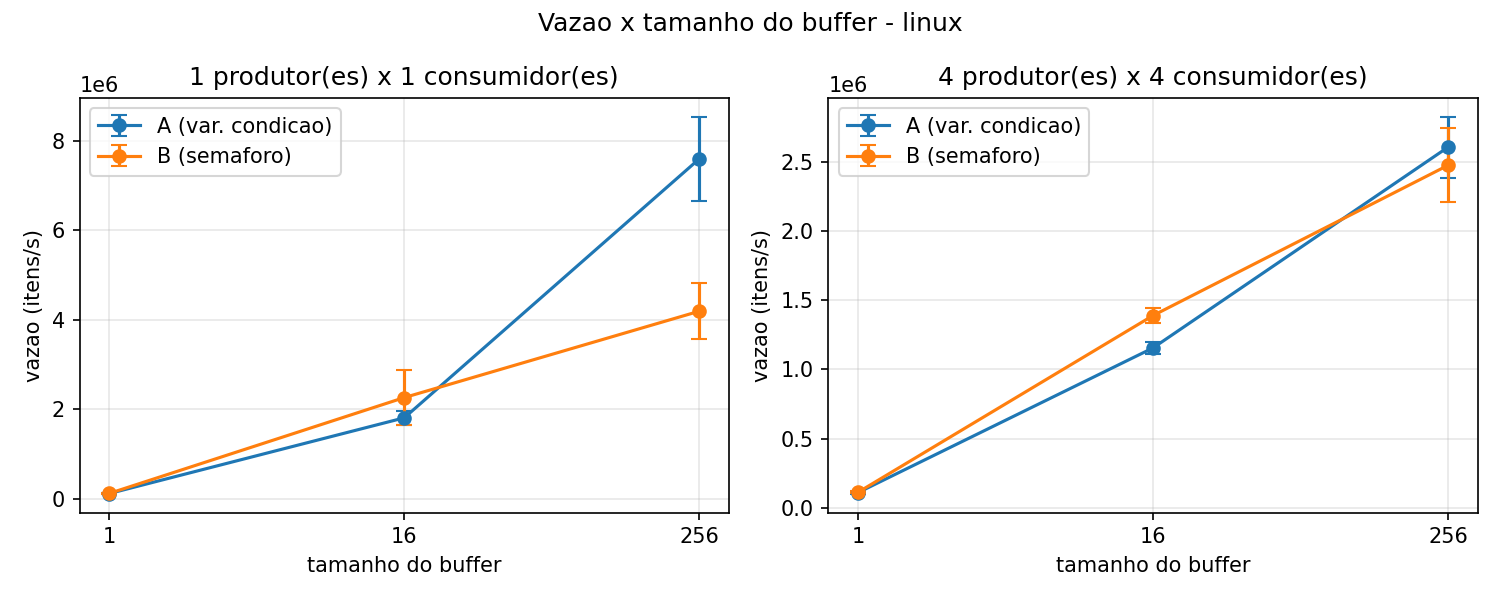
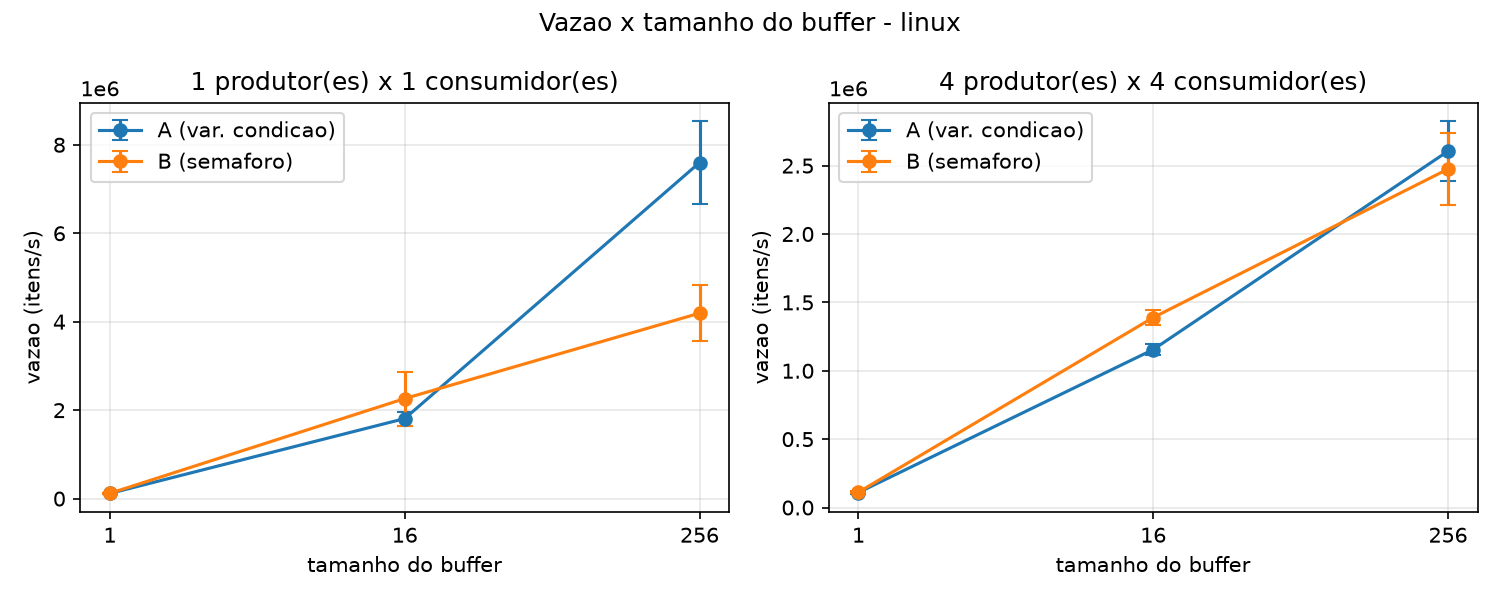
Saidas da analise separadas por SO para Windows e Linux nao se sobrescreverem

diff --git a/experimentos/analisar.py b/experimentos/analisar.py
@@ -4,11 +4,13 @@ analisar.py - resume os CSVs brutos e gera os graficos.
     python experimentos/analisar.py
 
 Le dados/<so>/vazao.csv e dados/<so>/latencia.csv(.gz) sem alterar
-nada, e escreve:
-    experimentos/resumo.csv
-    experimentos/resumo_latencia.csv
+nada. Todo arquivo gerado leva o nome do SO, entao rodar a analise
+numa maquina que so tem os dados de um SO nao apaga os do outro:
+    experimentos/resumo_<so>.csv
+    experimentos/resumo_latencia_<so>.csv
     experimentos/graficos/vazao_<so>.png
-    experimentos/graficos/latencia.png
+    experimentos/graficos/latencia_<so>.png
+    experimentos/graficos/latencia_comparacao.png  (so com 2+ SOs)
 """
 from pathlib import Path
 
@@ -48,7 +50,8 @@ def resumo(df):
     r = g["vazao_itens_s"].agg(media="mean", desvio="std", n="count").reset_index()
     t = g["tempo_s"].agg(tempo_medio="mean", tempo_desvio="std").reset_index()
     r = r.merge(t, on=CHAVE)
-    r.to_csv(SAIDA / "resumo.csv", index=False, float_format="%.4f")
+    for so, d in r.groupby("so"):
+        d.to_csv(SAIDA / f"resumo_{so}.csv", index=False, float_format="%.4f")
     return r
 
 
@@ -76,24 +79,35 @@ def grafico_vazao(r):
         plt.close(fig)
 
 
-def grafico_latencia(lat):
+def boxplot_latencia(lat, titulo, arquivo):
     grupos, rotulos = [], []
     for (so, versao), d in lat.groupby(["so", "versao"]):
         grupos.append(d["latencia_ns"] / 1000.0)
         rotulos.append(f"{so}\n{versao}")
-    fig, ax = plt.subplots(figsize=(8, 4.5))
+    fig, ax = plt.subplots(figsize=(4 + 2 * len(grupos), 4.5))
     ax.boxplot(grupos, showfliers=False)
     ax.set_xticks(range(1, len(rotulos) + 1))
     ax.set_xticklabels(rotulos)
     ax.set_ylabel("latencia (us)")
-    ax.set_title("Latencia produtor -> consumidor (1x1, buffer 1)")
+    ax.set_title(titulo)
     ax.grid(axis="y", alpha=0.3)
     fig.tight_layout()
-    fig.savefig(GRAF / "latencia.png", dpi=150)
+    fig.savefig(GRAF / arquivo, dpi=150)
     plt.close(fig)
 
-    q = lat.groupby(["so", "versao"])["latencia_ns"].describe(percentiles=[0.5, 0.9, 0.99])
-    q.to_csv(SAIDA / "resumo_latencia.csv", float_format="%.1f")
+
+def grafico_latencia(lat):
+    for so, d in lat.groupby("so"):
+        boxplot_latencia(d, f"Latencia produtor -> consumidor (1x1, buffer 1) - {so}",
+                         f"latencia_{so}.png")
+        q = d.groupby("versao")["latencia_ns"].describe(percentiles=[0.5, 0.9, 0.99])
+        q.to_csv(SAIDA / f"resumo_latencia_{so}.csv", float_format="%.1f")
+
+    # comparacao lado a lado so quando ha dados de mais de um SO,
+    # para nunca ser regravada com um SO so
+    if lat["so"].nunique() > 1:
+        boxplot_latencia(lat, "Latencia produtor -> consumidor (1x1, buffer 1)",
+                         "latencia_comparacao.png")
 
 
 def main():

diff --git a/README.md b/README.md
@@ -25,7 +25,7 @@ Em cima dela, um buffer circular limitado em duas versões:
 code/          camada de threads, buffer A/B, bench, Makefile, build_windows.bat
 testes/        test_platform.c (cada operação da camada), test_bbuffer.c (nenhum item perdido/duplicado)
 dados/         CSVs brutos (linux/, windows/) + ambiente.txt de cada máquina
-experimentos/  scripts de execução, analisar.py, resumo.csv e graficos/
+experimentos/  scripts de execução, analisar.py, resumos por SO e graficos/
 video/         vídeo da apresentação
 ```
 
@@ -62,8 +62,10 @@ Precisa de Python 3 com `pandas` e `matplotlib`:
 python experimentos/analisar.py
 ```
 
-Gera `experimentos/resumo.csv`, `experimentos/resumo_latencia.csv` e os gráficos em
-`experimentos/graficos/`. Os gráficos são gerados só a partir dos CSVs brutos, que nunca
+Gera `experimentos/resumo_<so>.csv`, `experimentos/resumo_latencia_<so>.csv` e, em
+`experimentos/graficos/`, `vazao_<so>.png`, `latencia_<so>.png` e `latencia_comparacao.png`
+(esta só quando há dados dos dois SOs). Como cada arquivo leva o nome do SO, rodar a análise
+numa máquina com os dados de um SO só não apaga os do outro. Os gráficos são gerados só a partir dos CSVs brutos, que nunca
 são editados à mão.
 
 ### Rodando o bench na mão
